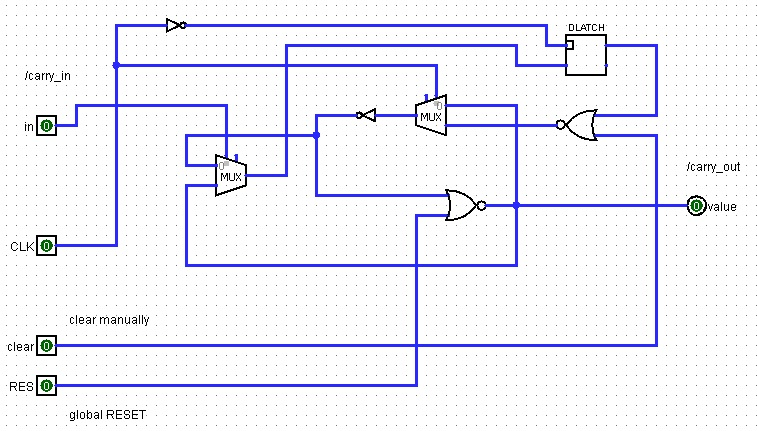
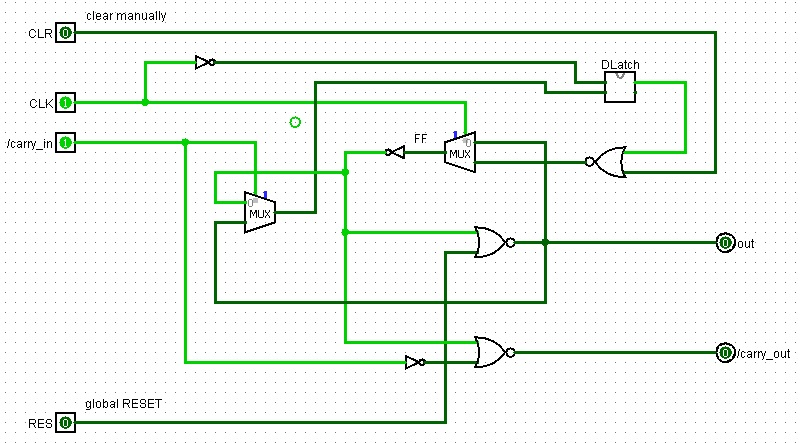
Counter sim

diff --git a/BreaksPPU/PPU.py b/BreaksPPU/PPU.py
@@ -1,0 +1,39 @@
+"""
+	PPU implementation in Python.
+
+	Both NTSC version of the chip (Ricoh 2C02) and PAL (Ricoh 2C07) are supported.
+
+"""
+
+from BaseLogic import *
+
+
+"""
+	One stage of H/V counters.
+
+	https://github.com/emu-russia/breaks/blob/master/BreakingNESWiki_DeepL/PPU/hv.md
+
+"""
+class CounterStage:
+	ff = 0					# This variable is used as a replacement for the hybrid FF built on MUX
+	latch = DLatch()
+
+	def sim(self, nCarry, PCLK, CLR, RES):
+		self.ff = MUX(PCLK, NOR(NOT(self.ff), RES), NOR(self.latch.get(), CLR))
+		self.latch.set (MUX(nCarry, NOT(self.ff), self.ff), NOT(PCLK))
+		out = NOR(NOT(self.ff), RES)
+		nCarryOut = NOR (NOT(self.ff), NOT(nCarry))
+		return [ out, nCarryOut ]
+
+	def dump(self):
+		print ("ff, latch: ", self.ff, self.latch.get())
+
+"""
+	Implementation of a full counter (H or V).
+
+"""
+class Counter:
+	pass
+
+class PPU:
+	pass

diff --git a/BreaksPPU/BaseLogic.py b/BreaksPPU/BaseLogic.py
@@ -23,6 +23,7 @@
 def NOT(a):
 	return ~a & 1
 
+
 """
 	2-nor
 
@@ -42,6 +43,7 @@ def NOT(a):
 def NOR(a, b):
 	return (~(a | b)) & 1
 
+
 """
 	2-nand
 
@@ -57,6 +59,7 @@ def NOR(a, b):
 """
 def NAND(a, b):
 	return (~(a & b)) & 1
+
 
 """
 	The real latch works as a pair of N-MOS transistors.
@@ -93,7 +96,11 @@ class DLatch:
 			self.g = a & 1
 
 	def get(self):
+		return self.g
+
+	def nget(self):
 		return NOT(self.g)
+
 
 """
 	The most tricky element, as it is difficult to identify at first glance.

diff --git a/BreaksPPU/BaseDemo.py b/BreaksPPU/BaseDemo.py
@@ -26,12 +26,12 @@ if __name__ == '__main__':
 
 	latch1 = DLatch()
 	latch1.set (1, 0)
-	print ("latch1: ", latch1.get())
+	print ("latch1: ", latch1.nget())
 
 	# Attempting to set the latch when D=1. The value on the latch must update (1) and therefore the output must be /out = 0 (inverted latch value).
 
 	latch1.set (1, 1)
-	print ("latch1: ", latch1.get())
+	print ("latch1: ", latch1.nget())
 
 	# Multiplexer demonstration
 

diff --git a/BreaksPPU/PpuDemo.py b/BreaksPPU/PpuDemo.py
@@ -1,0 +1,25 @@
+"""
+	Various experiments with PPU.
+
+"""
+
+import os
+
+from PPU import *
+
+if __name__ == '__main__':
+	bit0 = CounterStage()
+	bit1 = CounterStage()
+
+	# Run 4 pixels (in PPU terms)
+
+	not_carry = 1
+	CLR = 0
+	RES = 0
+
+	for i in range(4):
+		print("PCLK Cycle:", i)
+		res = bit0.sim(not_carry, 0, CLR, RES) 	 	# PCLK=0
+		bit0.dump()
+		res = bit0.sim(not_carry, 1, CLR, RES) 		# PCLK=1
+		bit0.dump()

diff --git a/BreakingNESWiki_DeepL/PPU/hv.md b/BreakingNESWiki_DeepL/PPU/hv.md
@@ -29,11 +29,24 @@ A nice scheme from Logisim:
 
 ![hv_stage_logisim](/BreakingNESWiki/imgstore/hv_stage_logisim.jpg)
 
+The meaning is as follows:
+- Virtually the current FF value can be represented as a multiplexer output controlled by PCLK
+- In the state PCLK=0 the FF value is regenerated with the old value (taking into account the global reset `RES`). Also, this state engages the counting circuit, which is implemented on the Carry-multiplexer and static latch
+- In the state PCLK=1 value FF updated with the new value from the counting circuit
+
+Table of states for counting circuit:
+
+|Current value of FF|carry_in (In straight logic)|New value on DLatch|
+|---|---|---|
+|0|0|0|
+|0|1|1|
+|1|0|1|
+|1|1|0|
+
 ## H/V Counters Design
 
 TODO: redo, simplify a bit
 
-Since the H-counter counts all the time, the input of the very first stage is wired to Vdd.
 The V-Counter input is regulated by the H-decoder. when H=340, the V-Counter `/V_IN` input is set to 0 (`/carry_in` = 0), which gives the ability to increase its value by 1.
 The output carry of each previous stage is wired to the input carry of the next, to form an inverted carry-chain.
 
@@ -46,3 +59,16 @@ The counters include such a small piece:
 What is it for? Most likely to reduce the propagation delay of the carry chain.
 
 ## Simulation
+
+```python
+class CounterStage:
+	ff = 0					# This variable is used as a replacement for the hybrid FF built on MUX
+	latch = DLatch()
+
+	def sim(self, nCarry, PCLK, CLR, RES):
+		self.ff = MUX(PCLK, NOR(NOT(self.ff), RES), NOR(self.latch.get(), CLR))
+		self.latch.set (MUX(nCarry, NOT(self.ff), self.ff), NOT(PCLK))
+		out = NOR(NOT(self.ff), RES)
+		nCarryOut = NOR (NOT(self.ff), NOT(nCarry))
+		return [ out, nCarryOut ]
+```
